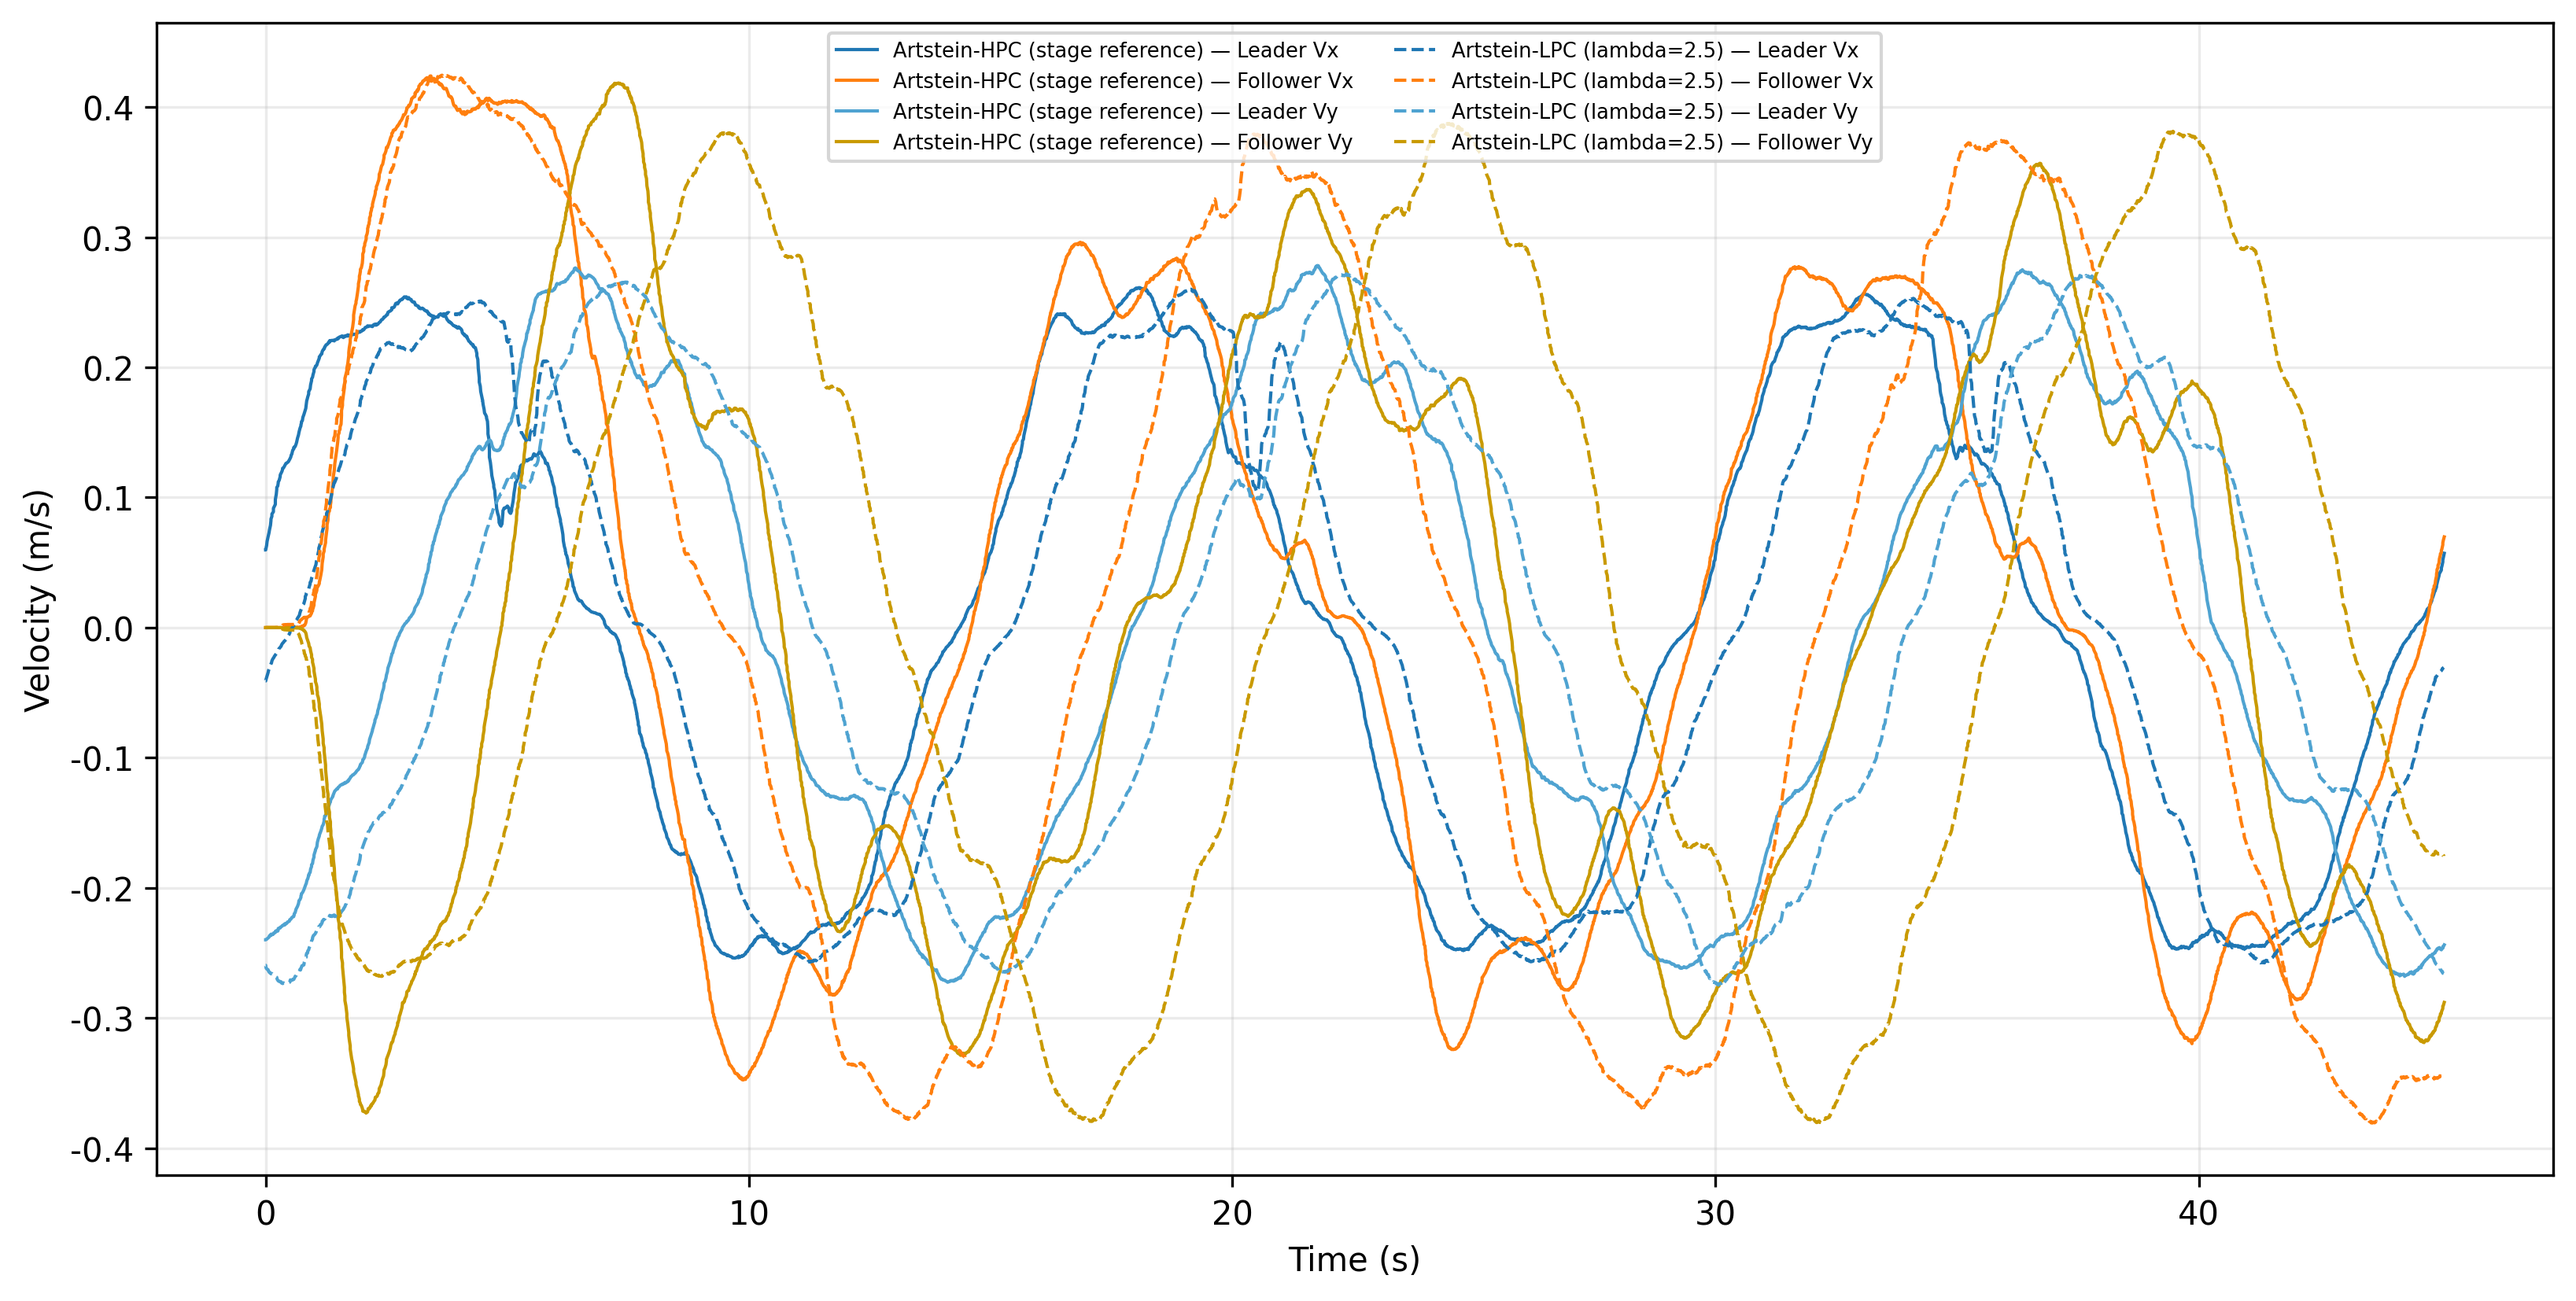
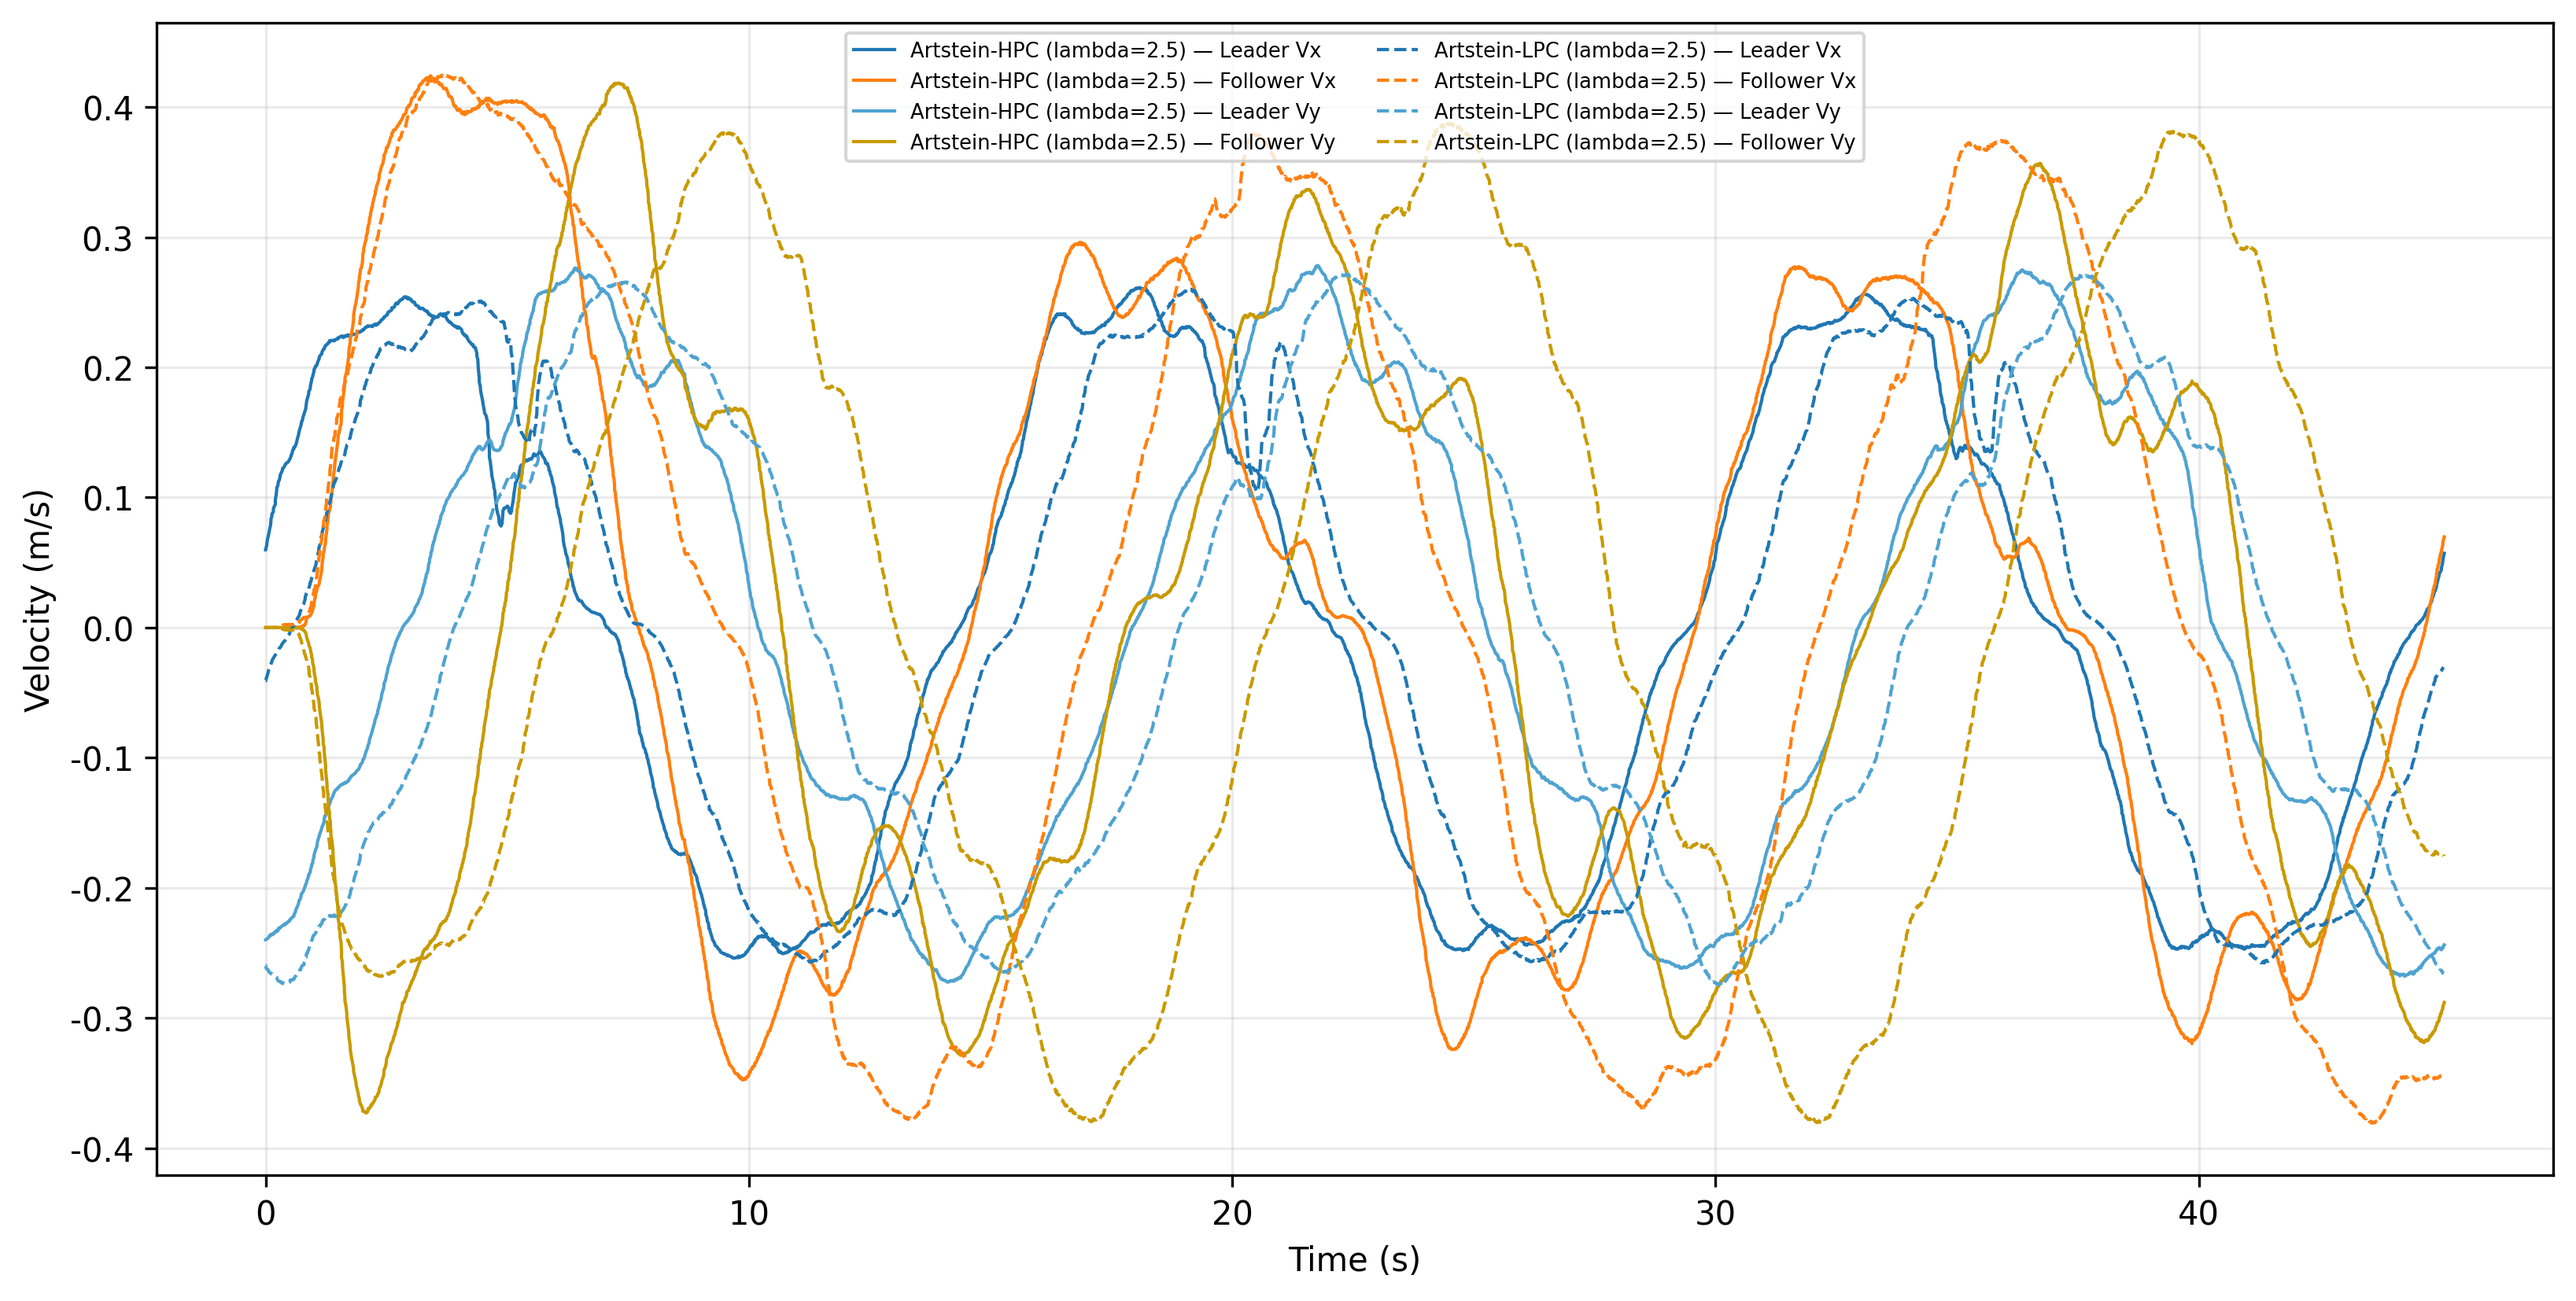
统一实验二HPC与LPC初始带宽参数

Changed region(s): [[0.3115, 0.0308, 0.5296, 0.1233], [0.5608, 0.0308, 0.7477, 0.1233]]

diff --git a/homo_multirobot_formation_control/test/test_analyze_real_tracking_report.py b/homo_multirobot_formation_control/test/test_analyze_real_tracking_report.py
@@ -72,6 +72,14 @@ def test_lpc_plot_label_omits_leader_speed_from_the_stage_report():
     }, chinese_labels=False) == 'Artstein-LPC (lambda=2.5)'
 
 
+def test_hpc_stage_plot_label_exposes_the_common_lambda_setting():
+    assert module.report_label({
+        'id': 'hpc_lpc_reference',
+        'controller_family': 'artstein_hpc',
+        'initial_min_lambda': 2.5,
+    }, chinese_labels=False) == 'Artstein-HPC (lambda=2.5)'
+
+
 def test_generate_report_assets_writes_the_five_high_resolution_pngs(tmp_path, capsys):
     manifest = (PACKAGE_DIR / "analysis" / "real_tracking_report" /
                 "experiment_manifest.yaml")

diff --git a/homo_multirobot_formation_control/scripts/analyze_real_tracking_report.py b/homo_multirobot_formation_control/scripts/analyze_real_tracking_report.py
@@ -74,7 +74,7 @@ def report_label(experiment, chinese_labels):
     if experiment["controller_family"] == "artstein_lpc":
         return "Artstein-LPC (lambda={:.1f})".format(experiment["initial_min_lambda"])
     if experiment["id"] == "hpc_lpc_reference":
-        return "Artstein-HPC (stage reference)"
+        return "Artstein-HPC (lambda={:.1f})".format(experiment["initial_min_lambda"])
     state = "on" if experiment.get("leader_command_feedforward") else "off"
     return f"Artstein-HPC (Leader command feedforward: {state})"
 

diff --git a/docs/reports/2026-09-15-real-robot-tracking/data_provenance.md b/docs/reports/2026-09-15-real-robot-tracking/data_provenance.md
@@ -20,7 +20,7 @@
 | B | `robot_traj/real/4d_artstein_no_forward_8traj_20260914_204546` | `trial_01` | `use_hpc=true`、`enable_leader_cmd_feedforward=false` |
 | C | `robot_traj/real/4d_artstein_lpc_20260915_104805` | `trial_01` | `use_hpc=false`、`initial_min_lambda=2.0`、Leader 速度 0.20 m/s |
 | D | `robot_traj/real/4d_artstein_lpc_20260915_105440` | `trial_02` | `use_hpc=false`、`initial_min_lambda=2.5`、Leader 速度 0.25 m/s |
-| E | `robot_traj/real/4d_artstein_20260909_173424` | `trial_03` | 用户指定为 Artstein-HPC 实验二参考组；动捕实物记录 |
+| E | `robot_traj/real/4d_artstein_20260909_173424` | `trial_03` | 用户确认 λ初值=2.5 的 Artstein-HPC 实验二参考组；动捕实物记录 |
 
 实验配置以各目录的 `metadata.yaml` 为依据，轨迹与误差计算以 `raw.csv` 为依据。报告中的距离评价基准统一为控制器 `radius=1.0 m`。
 
